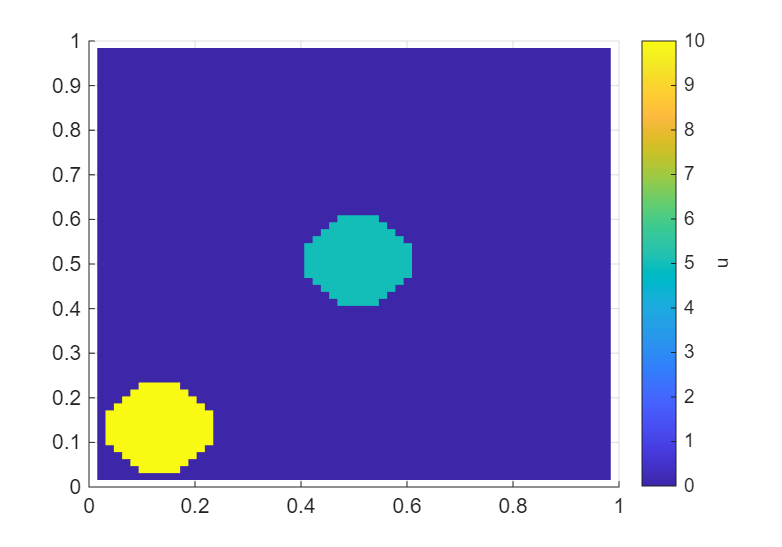
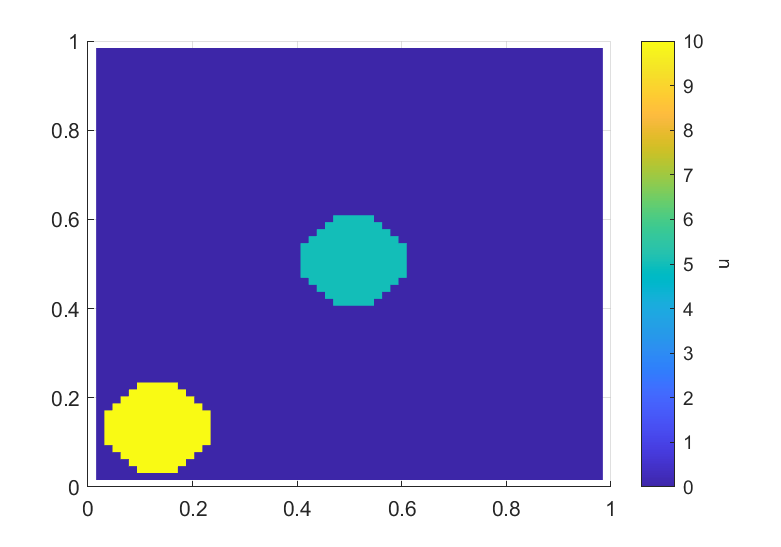
Completed ma580 hw6

diff --git a/ma580/hw5/hw5.m b/ma580/hw5/hw5.m
@@ -52,7 +52,7 @@ figure()
 plot(relres, LineWidth=2)
 xlabel("Backward time step index")
 ylabel("Relative Residual")
-yscale("log")
+%yscale("log")
 title(sprintf("Residual, n_x = %i", nx))
 set(gcf, "Position", [100 100 500 350])
 saveas(gcf, sprintf("residual_%i.png", nx))

diff --git a/ma580/hw5/init_heat_2d.m b/ma580/hw5/init_heat_2d.m
@@ -15,7 +15,7 @@ kappa = .0025;      % diffusion coefficient
 %
 % Spatial discretization
 % 
-nx = 2^8;
+nx = 2^6;
 h = 1/nx;
 xi = [0 : h : 1]'; yi = xi;
 [Xi Yi] = meshgrid(xi,xi);
